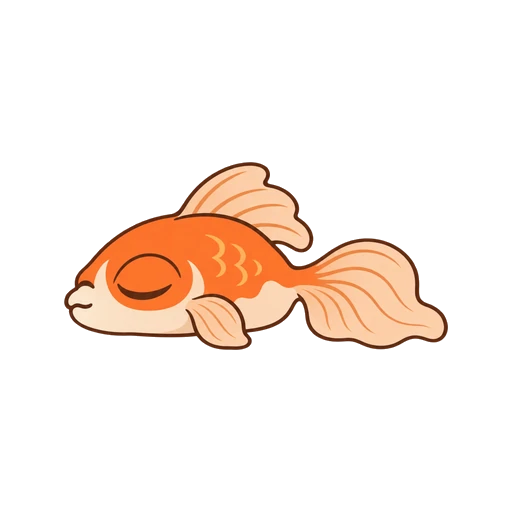
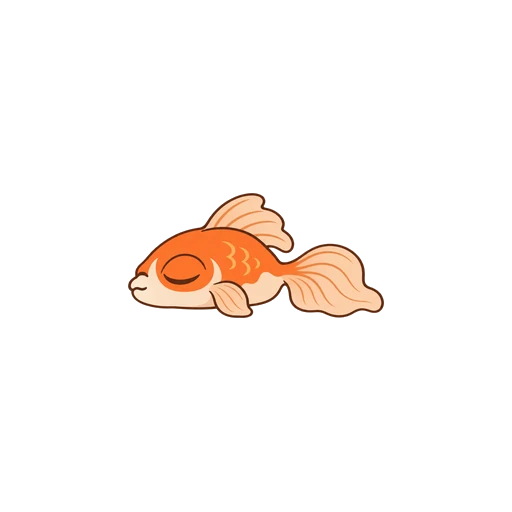
어항 크게 보기: 금붕어 5장 원본에서 크게 다시 뽑기(fbv_fish_*), fish_sleep_1 축척 맞춤

Changed region(s): [[0.125, 0.3125, 0.875, 0.6875]]

diff --git a/assets/briefs/FISHBOWL_VIEW_SPRITE_PLAN.md b/assets/briefs/FISHBOWL_VIEW_SPRITE_PLAN.md
@@ -121,4 +121,5 @@
 - `fish_sleep_1`: `fish_swim_1` 원본과 몸 길이를 재어 다르면 같게 맞추고 메모에 적는다.
 - 원본 이름: `home-bed-v1.png`·`home-chair-v1.png`·`home-sign-v1.png`·`fish-sleep-1-v1.png`.
 
-**적용 메모 (2026-11-15):** 네 장 모두 1254×1254로 왔다(2장 규격은 512). 원 밖 옅은 알파가 캔버스 끝까지 번져 있어 투명도 24 미만을 지우고 그림 상자대로 자른 뒤, 512 캔버스에 다시 놓았다. 살림은 폭을 침대 400 · 의자 180 · 문패 160px로 맞추고 바닥선을 y=461(아래 여백 10%)에 통일, 가로 가운데. `fish_sleep_1`은 몸 길이 384px(캔버스의 75%)로 가운데에 둠 — 금붕어 원본이 작업 공간에 없어 `fish-swim-1-v1.png`와 몸 길이를 재어 맞추지는 못했다(다시 뽑기 때 맞춘다). 웹 그림은 512×512 캔버스째 둔다(같은 축척·바닥선을 지키려고).
+**적용 메모 (2026-11-15):** 네 장 모두 1254×1254로 왔다(2장 규격은 512). 원 밖 옅은 알파가 캔버스 끝까지 번져 있어 투명도 24 미만을 지우고 그림 상자대로 자른 뒤, 512 캔버스에 다시 놓았다. 살림은 폭을 침대 400 · 의자 180 · 문패 160px로 맞추고 바닥선을 y=461(아래 여백 10%)에 통일, 가로 가운데. 웹 그림은 512×512 캔버스째 둔다(같은 축척·바닥선을 지키려고).
+금붕어 다시 뽑기: 원본 다섯 장도 1254×1254. 알파 정리 후 `swim_1` 몸 길이 1106px → 256px 비율(0.2315)을 다섯 장에 똑같이 써서 그림 상자대로 잘랐다(`fbv_fish_swim_1` 256×162 … `carry_1` 278×165). 방 그림(`fish_*.webp`)도 다섯 장이 한 비율(≈0.066)이라 서로 크기 관계가 같다. `fish_sleep_1`은 몸 길이를 `swim_1` 원본과 같게 256px로 줄여 512 캔버스 가운데에 둠(256×125, 상자 128,193–384,318) — 다른 금붕어와 같은 축척.
